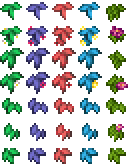
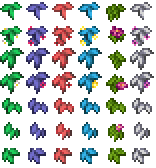
spooky trellises!!!

diff --git a/Content/Forest/Walls/TrellisVine.cs b/Content/Forest/Walls/TrellisVine.cs
@@ -67,3 +67,75 @@ public class TrellisVine : ModTile
 		return false;
 	}
 }
+
+public class CustomTrellisVine(int customId, string internalName, string assetPath) : ModTile
+{
+	public const int StyleRange = 7;
+
+	public override string Texture => TexturePath;
+	public override string Name => InternalName;
+
+	public readonly int Id = customId;
+	public readonly string TexturePath = assetPath;
+	public readonly string InternalName = internalName;
+
+	public override void SetStaticDefaults()
+	{
+		Main.tileNoFail[Type] = true;
+		Main.tileSolid[Type] = false;
+		Main.tileMergeDirt[Type] = false;
+		Main.tileBlockLight[Type] = false;
+		Main.tileFrameImportant[Type] = true;
+
+		TileID.Sets.FramesOnKillWall[Type] = true;
+
+		TileObjectData.newTile.CopyFrom(TileObjectData.Style3x3Wall);
+		TileObjectData.newTile.Width = TileObjectData.newTile.Height = 1;
+		TileObjectData.newTile.Origin = Point16.Zero;
+		TileObjectData.newTile.CoordinateWidth = 24;
+		TileObjectData.newTile.CoordinateHeights = [22];
+		TileObjectData.newTile.RandomStyleRange = StyleRange;
+		TileObjectData.newTile.StyleWrapLimit = StyleRange;
+		TileObjectData.addTile(Type);
+
+		AddMapEntry(new Color(90, 165, 100));
+		HitSound = SoundID.Grass with { Pitch = 0.2f, PitchVariance = 0.1f };
+		DustType = DustID.Grass;
+	}
+
+	public override bool CreateDust(int i, int j, ref int type)
+	{
+		int style = TileObjectData.GetTileStyle(Main.tile[i, j]) / StyleRange;
+		type = style switch
+		{
+			1 => DustID.CorruptPlants,
+			2 => DustID.CrimsonPlants,
+			3 => DustID.HallowedPlants,
+			_ => DustID.Grass
+		};
+
+		return true;
+	}
+
+	public override bool PreDraw(int i, int j, SpriteBatch spriteBatch)
+	{
+		if (TileExtensions.GetVisualInfo(i, j, out Color color, out Texture2D texture))
+		{
+			Tile tile = Main.tile[i, j];
+			var data = TileObjectData.GetTileData(tile);
+			var source = new Rectangle(tile.TileFrameX, tile.TileFrameY, data.CoordinateWidth, data.CoordinateFullHeight);
+			var position = new Vector2(i, j).ToWorldCoordinates(8, 0) - Main.screenPosition + TileExtensions.TileOffset;
+			var origin = new Vector2(source.Width / 2, 4);
+
+			if (Framing.GetTileSafely(i + 1, j + 1).TileType == Type)
+			{
+				const float lightness = 0.6f;
+				spriteBatch.Draw(texture, position + new Vector2(8), source, color.MultiplyRGB(new Color(lightness, lightness, lightness)), 0, origin, 1, SpriteEffects.None, 0);
+			}
+
+			spriteBatch.Draw(texture, position, source, color, 0, origin, 1, SpriteEffects.None, 0);
+		}
+
+		return false;
+	}
+}

diff --git a/Content/Forest/Walls/Trellises.cs b/Content/Forest/Walls/Trellises.cs
@@ -7,6 +7,17 @@ namespace SpiritReforged.Content.Forest.Walls;
 
 public class Trellis : ModWall, ILoadItem, ICheckItemUse
 {
+	public enum TrellisVineType
+	{
+		Invalid = -1,
+		Default = 0,
+		Corrupt,
+		Crimson,
+		Hallow,
+		Oasis,
+		Unloaded,
+	}
+
 	public virtual void AddItemRecipes(ModItem item)
 	{
 		item.CreateRecipe(4).AddIngredient(ItemID.Wood).AddTile(TileID.Sawmill).Register();
@@ -55,25 +66,36 @@ public class Trellis : ModWall, ILoadItem, ICheckItemUse
 	}
 
 	public override void NumDust(int i, int j, bool fail, ref int num) => num = fail ? 1 : 3;
+
 	public bool? CheckItemUse(int type, Player player, int i, int j)
 	{
-		if (player.whoAmI == Main.myPlayer && type is ItemID.GrassSeeds or ItemID.CrimsonSeeds or ItemID.CorruptSeeds or ItemID.HallowedSeeds)
+		if (player.whoAmI == Main.myPlayer)
 		{
-			int minRange = type switch
+			if (type is ItemID.GrassSeeds or ItemID.CrimsonSeeds or ItemID.CorruptSeeds or ItemID.HallowedSeeds or ItemID.StaffofRegrowth or ItemID.AcornAxe)
 			{
-				ItemID.CorruptSeeds => 1,
-				ItemID.CrimsonSeeds => 2,
-				ItemID.HallowedSeeds => 3,
-				_ => 0
-			};
+				TrellisVineType minRange = type switch
+				{
+					ItemID.CorruptSeeds => TrellisVineType.Corrupt,
+					ItemID.CrimsonSeeds => TrellisVineType.Crimson,
+					ItemID.HallowedSeeds => TrellisVineType.Hallow,
+					_ => TrellisVineType.Default
+				};
 
-			if (minRange == 0 && player.ZoneDesert)
-				minRange = 4;
+				if (minRange == 0 && player.ZoneDesert)
+					minRange = TrellisVineType.Oasis;
 
-			int style = WorldGen.genRand.Next(minRange * TrellisVine.StyleRange, minRange * TrellisVine.StyleRange + TrellisVine.StyleRange);
-			Placer.PlaceTile<TrellisVine>(i, j, style).Send();
+				int range = (int)minRange;
+				int style = WorldGen.genRand.Next(range * TrellisVine.StyleRange, range * TrellisVine.StyleRange + TrellisVine.StyleRange);
+				Placer.PlaceTile<TrellisVine>(i, j, style).Send();
 
-			return true;
+				return true;
+			}
+			else if (CrossmodTrellis.CustomVinesByItem.TryGetValue(type, out var customVine))
+			{
+				int range = customVine.style;
+				int style = WorldGen.genRand.Next(range * TrellisVine.StyleRange, range * TrellisVine.StyleRange + TrellisVine.StyleRange);
+				Placer.PlaceTile(i, j, customVine.type, style).Send();
+			}
 		}
 
 		return null;

diff --git a/Content/Crossmod/Spooky/SpookyForest/SpookyTrellises.cs b/Content/Crossmod/Spooky/SpookyForest/SpookyTrellises.cs
@@ -1,0 +1,69 @@
+using SpiritReforged.Common.ItemCommon;
+using SpiritReforged.Common.ModCompat;
+using SpiritReforged.Content.Forest.Walls;
+
+namespace SpiritReforged.Content.Crossmod.Spooky.SpookyForest;
+
+public class TrellisSpookyWood : Trellis
+{
+	public override bool IsLoadingEnabled(Mod mod) => CrossMod.Spooky.Enabled;
+
+	public override void AddItemRecipes(ModItem item)
+	{
+		if (!CrossMod.Spooky.TryFind("SpookyWoodItem", out ModItem sp))
+			return;
+
+		item.CreateRecipe(4).AddIngredient(sp.Type).AddTile(TileID.Sawmill).Register();
+		item.CreateRecipe(4).AddIngredient(AutoContent.ItemType<TrellisSpookyWoodTwo>(), 4).AddTile(TileID.Sawmill).Register();
+	}
+
+	public override void AddEntry()
+	{
+		AddMapEntry(new Color(56, 36, 22));
+		DustType = DustID.WoodFurniture;
+	}
+}
+
+public class TrellisSpookyWoodTwo : TrellisSpookyWood
+{
+	public override void AddItemRecipes(ModItem item)
+	{
+		if (!CrossMod.Spooky.TryFind("SpookyWoodItem", out ModItem sp))
+			return;
+
+		item.CreateRecipe(4).AddIngredient(sp.Type).AddTile(TileID.Sawmill).Register();
+		item.CreateRecipe(4).AddIngredient(AutoContent.ItemType<TrellisSpookyWood>(), 4).AddTile(TileID.Sawmill).Register();
+	}
+}
+
+public class TrellisOldBirch : Trellis
+{
+	public override bool IsLoadingEnabled(Mod mod) => CrossMod.Spooky.Enabled;
+
+	public override void AddItemRecipes(ModItem item)
+	{
+		if (!CrossMod.Spooky.TryFind("BirchWoodItem", out ModItem sp))
+			return;
+
+		item.CreateRecipe(4).AddIngredient(sp.Type).AddTile(TileID.Sawmill).Register();
+		item.CreateRecipe(4).AddIngredient(AutoContent.ItemType<TrellisOldBirchTwo>(), 4).AddTile(TileID.Sawmill).Register();
+	}
+
+	public override void AddEntry()
+	{
+		AddMapEntry(new Color(139, 129, 121));
+		DustType = DustID.Web;
+	}
+}
+
+public class TrellisOldBirchTwo : TrellisOldBirch
+{
+	public override void AddItemRecipes(ModItem item)
+	{
+		if (!CrossMod.Spooky.TryFind("BirchWoodItem", out ModItem sp))
+			return;
+
+		item.CreateRecipe(4).AddIngredient(sp.Type).AddTile(TileID.Sawmill).Register();
+		item.CreateRecipe(4).AddIngredient(AutoContent.ItemType<TrellisOldBirch>(), 4).AddTile(TileID.Sawmill).Register();
+	}
+}

diff --git a/Content/Forest/Walls/CrossmodTrellis.cs b/Content/Forest/Walls/CrossmodTrellis.cs
@@ -1,0 +1,55 @@
+namespace SpiritReforged.Content.Forest.Walls;
+
+#nullable enable
+
+internal class CrossmodTrellis : ModSystem
+{
+	public readonly record struct CustomVine((int, int)[] ItemToStyle);
+
+	public static readonly Dictionary<int, (int style, int type)> CustomVinesByItem = [];
+	public static readonly Dictionary<int, CustomVine> CustomVinesById = [];
+
+	private static Action? _delayedActions;
+
+	public static int Id { get; private set; } = 0;
+
+	public static int Recieve(object[] parameters)
+	{
+		if (parameters.Length != 4)
+			throw new ArgumentException("TrellisVine Mod.Call takes exactly 4 parameters - (Mod mod, Func<(int, int)[]> itemStylePairFunc, string name, string path).");
+
+		if (parameters[0] is not Mod mod)
+			throw new ArgumentException("TrellisVine parameter 0 should be a Mod (mod).");
+
+		if (parameters[1] is not Func<(int, int)[]> itemStylePairs)
+			throw new ArgumentException("TrellisVine parameter 1 should be an Func<(int, int)[]> (itemStylePairs).");
+
+		if (parameters[2] is not string name)
+			throw new ArgumentException("TrellisVine parameter 2 should be a string (name).");
+
+		if (parameters[3] is not string path)
+			throw new ArgumentException("TrellisVine parameter 3 should be a string (path).");
+
+		return InternalRecieve(mod, itemStylePairs, name, path);
+	}
+
+	private static int InternalRecieve(Mod mod, Func<(int, int)[]> itemStylePairs, string name, string path)
+	{
+		mod.AddContent(new CustomTrellisVine(Id, name, path));
+		int type = mod.Find<ModTile>(name).Type;
+
+		_delayedActions += () =>
+		{
+			var vine = new CustomVine(itemStylePairs());
+			CustomVinesById.Add(Id, vine);
+
+			foreach ((int id, int style) in vine.ItemToStyle)
+				CustomVinesByItem.Add(id, (style, type));
+		};
+
+		Id++;
+		return type;
+	}
+
+	public override void PostSetupContent() => _delayedActions?.Invoke();
+}

diff --git a/SpiritReforged.Call.cs b/SpiritReforged.Call.cs
@@ -7,6 +7,7 @@ using SpiritReforged.Common.WorldGeneration.Ecotones;
 using SpiritReforged.Content.Desert.ScarabBoss.Boss;
 using SpiritReforged.Content.Forest.Botanist.Items;
 using SpiritReforged.Content.Forest.Safekeeper;
+using SpiritReforged.Content.Forest.Walls;
 using SpiritReforged.Content.SaltFlats;
 using SpiritReforged.Content.Savanna.Ecotone;
 using SpiritReforged.Content.Underground.Tiles.Potion;
@@ -147,6 +148,10 @@ public partial class SpiritReforgedMod : Mod
 				case "AddCustomDoT":
 					{
 						return CustomDoT.AddCustomDoT(args[1..]);
+					}
+				case "TrellisVine":
+					{
+						return CrossmodTrellis.Recieve(args[1..]);
 					}
 				default:
 					{
